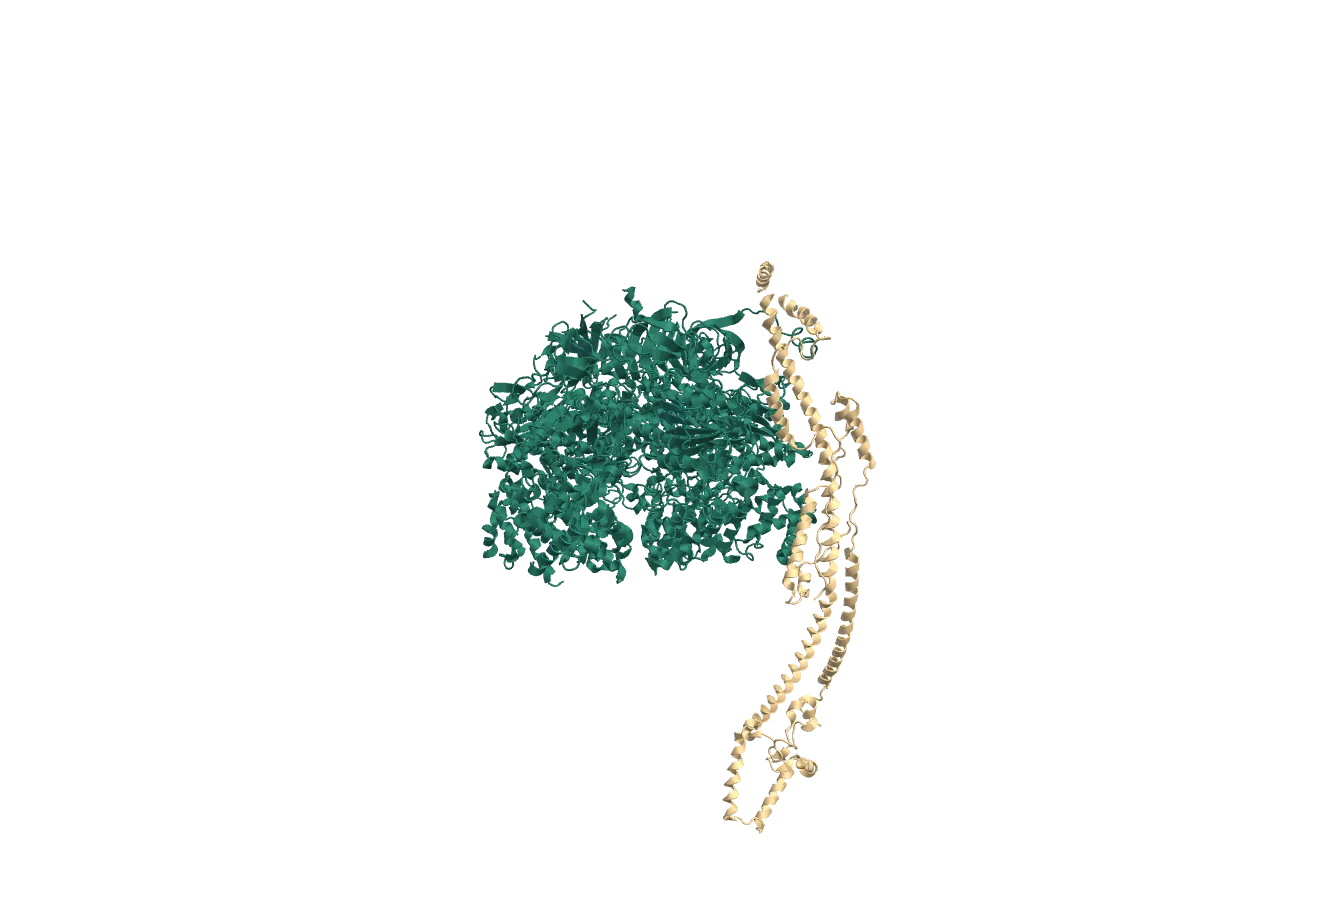
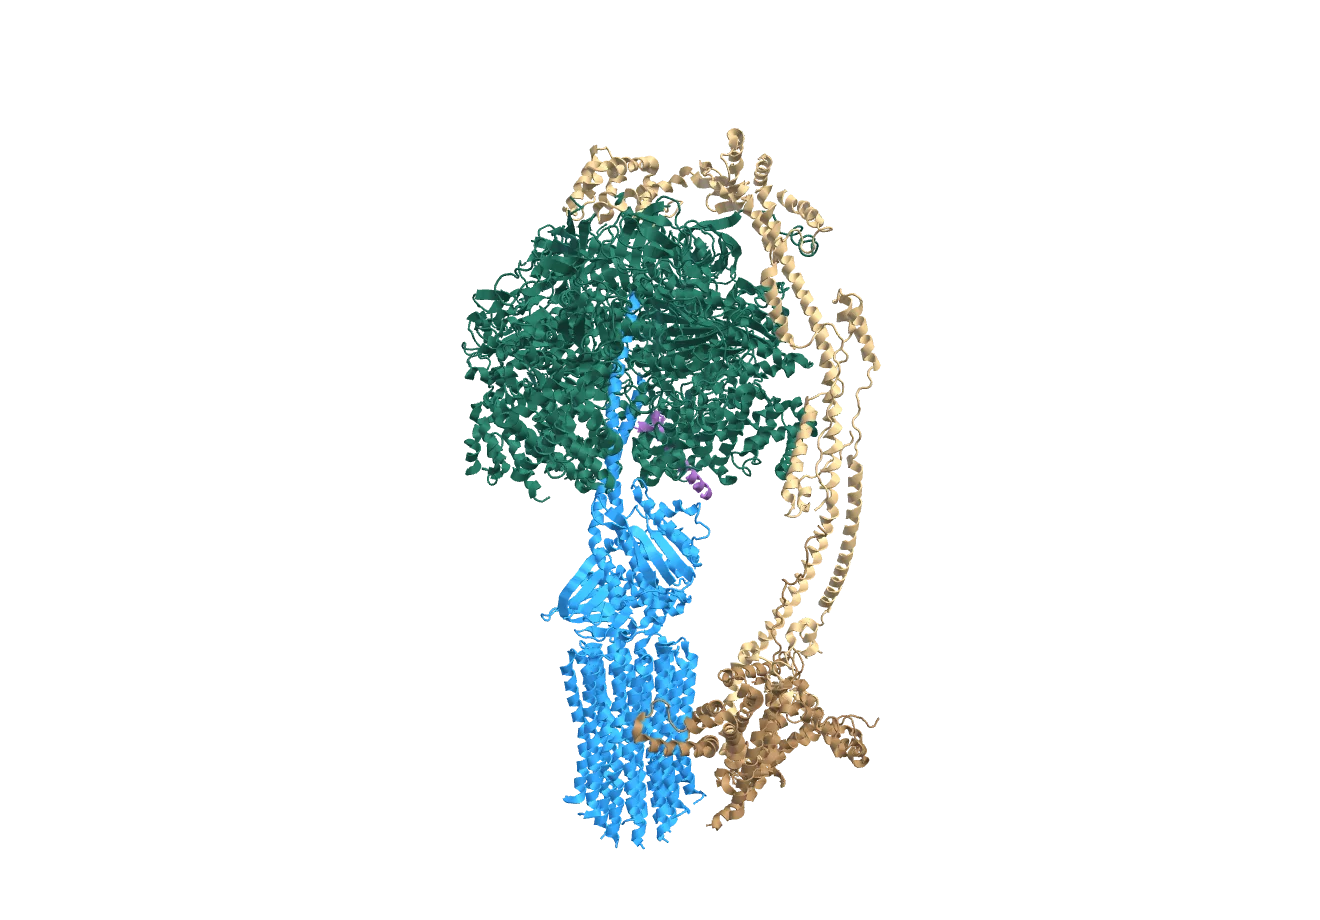
Make tool for baking protein thumbnails and update the renders with missing chains

Changed region(s): [[0.3417, 0.1217, 0.6833, 0.913]]

diff --git a/demos/proteins/tools/stills.html b/demos/proteins/tools/stills.html
@@ -25,7 +25,7 @@
   body{font:14px/1.5 system-ui,-apple-system,sans-serif;margin:2rem;background:#faf8f4;color:#14161a}
   h1{font-size:1.2rem;margin:0 0 .4rem}
   p{color:#6d6f76;margin:0 0 1.2rem}
-  button{font:inherit;padding:.45rem 1rem;border:1px solid #14161a;background:#fff;border-radius:3px;cursor:pointer}
+  button,select{font:inherit;padding:.45rem 1rem;border:1px solid #14161a;background:#fff;border-radius:3px;cursor:pointer}
   /* The mount is 2x a card's 330x230 box: the still is a background-image on
      a retina screen, and a 1x bake is visibly soft next to the live canvas. */
   #mount{width:660px;height:460px;margin:1.2rem 0;border:1px solid #e4e0d7;background:#faf8f4}
@@ -37,6 +37,8 @@
 <h1>Gallery stills</h1>
 <p>Draws every protein once and writes <code>proteins/stills/&lt;key&gt;.webp</code>. Dev server only.</p>
 <button id="go">Bake all</button>
+<select id="pick"></select>
+<button id="one">Bake selected</button>
 <div id="mount"></div>
 <div id="log"></div>
 
@@ -73,7 +75,16 @@ const say = (t, bad) => {
 
 const wait = ms => new Promise(r => setTimeout(r, ms));
 
-async function bake(p) {
+/* One live box, not one per entry. Picking a protein loads it here and
+   leaves it up — the point of a picker is to LOOK before baking, and a box
+   destroyed the instant its frame is captured never gave a human that
+   chance. `liveKey` is what it currently holds, so `bake` below can skip
+   the reload when the box on screen already IS the selection. */
+let liveBox = null;
+let liveKey = null;
+
+async function loadEntry(p) {
+  if (liveBox) { liveBox.destroy(); liveBox = null; liveKey = null; }
   const v = defaultOf(p);
   const t = await fetch(dataOf(p, v.read.baked)).then(r => r.json());
 
@@ -101,16 +112,30 @@ async function bake(p) {
   });
   if (box.setPocket && t.pocket) box.setPocket(t.pocket);
 
+  /* Chains build one per animation frame (kit/proteinbox.js's "One chain per
+     frame" note), so a fixed wait here baked big assemblies mid-build —
+     atp-synthase's 28 chains needed ~28 frames and only ever got the ~14 a
+     4x60ms wait affords. Poll box.building until the queue drains instead. */
+  for (let i = 0; box.building && i < 300; i++) { box.draw(); await wait(16); }
+  if (box.building) throw new Error(`${p.key}: chains never finished building`);
+
   // A few frames, not one: the fit runs off a resize and the pocket lands
   // after the ribbon, and a snapshot taken before either is the wrong frame.
   for (let i = 0; i < 4; i++) { box.draw(); await wait(60); }
+  box.draw();
+
+  liveBox = box; liveKey = p.key;
+  return box;
+}
+
+async function bake(p) {
+  const box = (liveKey === p.key && liveBox) ? liveBox : await loadEntry(p);
 
   /* THE RIBBON ON NOTHING. The renderer's context is alpha and the still keeps
      it, so the card's paper shows through and a still is not pinned to one
      background colour. WebP because PNG at this size is 400 KB a card. */
   box.draw();                            // the buffer is only readable now
   const webp = box.canvas.toDataURL('image/webp', 0.85);
-  box.destroy();
   /* A browser with no WebP ENCODER hands back a PNG under the name asked for,
      silently, and the bake would then write 400 KB files with the wrong
      extension. Checked rather than trusted; the fix is to run this in a
@@ -129,10 +154,18 @@ async function bake(p) {
   return out.bytes;
 }
 
-document.getElementById('go').addEventListener('click', async () => {
-  document.getElementById('go').disabled = true;
-  logEl.textContent = '';
-  for (const p of ENTRIES) {
+const pickEl = document.getElementById('pick');
+for (const p of ENTRIES) {
+  const o = document.createElement('option');
+  o.value = p.key; o.textContent = p.key;
+  pickEl.appendChild(o);
+}
+const goEl = document.getElementById('go');
+const oneEl = document.getElementById('one');
+
+async function run(entries) {
+  goEl.disabled = oneEl.disabled = pickEl.disabled = true;
+  for (const p of entries) {
     try {
       const bytes = await bake(p);
       say(`${p.key} — ${Math.round(bytes / 1024)} KB`);
@@ -141,8 +174,27 @@ document.getElementById('go').addEventListener('click', async () => {
     }
   }
   say('done.');
-  document.getElementById('go').disabled = false;
+  goEl.disabled = oneEl.disabled = pickEl.disabled = false;
+}
+
+goEl.addEventListener('click', () => { logEl.textContent = ''; run(ENTRIES); });
+oneEl.addEventListener('click', () => {
+  logEl.textContent = '';
+  run([ENTRIES.find(p => p.key === pickEl.value)]);
 });
+/* Picking a protein loads it right away — the mount is not just where a bake
+   happens to flash through, it is how you tell which entry you are about to
+   bake before you commit to it. */
+pickEl.addEventListener('change', () => {
+  loadEntry(ENTRIES.find(p => p.key === pickEl.value))
+    .catch(e => say(`${pickEl.value} — ${e.message}`, true));
+});
+
+/* ?key=<protein> preselects AND loads, so a card's own "rebake this one"
+   link (or a bookmark) opens straight to that protein on screen. */
+const wantKey = new URLSearchParams(location.search).get('key');
+if (wantKey && ENTRIES.some(p => p.key === wantKey)) pickEl.value = wantKey;
+pickEl.dispatchEvent(new Event('change'));   // load whatever ended up selected
 </script>
 </body>
 </html>

diff --git a/demos/kit/proteinbox.js b/demos/kit/proteinbox.js
@@ -564,6 +564,13 @@
       onResize: fit,
       onDestroy: () => { if (sesOwner === box) sesOwner = null; },
     });
+    /* True while chains are still queued, one per frame — see the "One chain
+       per frame" note in setData below. A caller that needs the WHOLE
+       structure before it acts (a thumbnail bake snapshotting the canvas)
+       polls this instead of guessing how many frames a given entry needs.
+       Set here, before `opts.data` can trigger the first setData call below,
+       so that call's own flip to `true` is never clobbered by this default. */
+    box.building = false;
 
     /* Two groups, never both visible. The trajectory is in FoldLib.orient()'s
        frame and the trace is in the crystal's, so they are not the same
@@ -860,6 +867,7 @@
       const naIds = ids.filter(id => t.chains[id] && t.chains[id].kind === 'na');
       const queue = ids.filter(id => !(t.chains[id] && t.chains[id].kind === 'na'));
       if (naIds.length) queue.push(NA_STEP);
+      if (!pre) box.building = true;
 
       /* One chain per frame. A tetramer is ~80k triangles and building all
          four in the frame the trace lands is a visible stall on a page that
@@ -923,6 +931,7 @@
              put the old one out of sight. */
           remember(ribKey, madeMeshes, drawn);
           if (pre) { warmGeo(madeMeshes.map(m => m.geometry)); return; }
+          box.building = false;
           sweepOld(mine);
           box.draw();
         }

diff --git a/demos/admin.html b/demos/admin.html
@@ -286,6 +286,10 @@
         <div class="path">dna-replication.html <span class="badge">prototype</span></div>
         <div class="desc">Replication: the fork opens, then you copy the template a letter at a time — each nucleotide pairs and joins the backbone in the same beat</div>
       </a>
+      <a class="card test" href="tests/intro.html">
+        <div class="path">tests/intro.html <span class="badge">TEST</span></div>
+        <div class="desc">A front-door study: the wordmark nucleates, six live boxes drift in and the scroll settles them into the lesson grid, then the builder's ask box behind a waitlist and the protein gallery. Its own palette. tests/intro-water.html is its water card</div>
+      </a>
       <a class="card test" href="tests/sandbox-test.html">
         <div class="path">tests/sandbox-test.html <span class="badge">TEST</span></div>
         <div class="desc">The sandbox template: one scene, no Back/Next, every control at once. data-shell="sandbox" and kit/sandbox-shell.js over the lesson shell</div>

diff --git a/demos/lib/scene.js b/demos/lib/scene.js
@@ -374,8 +374,13 @@
       {canvas,antialias:o.antialias!==false,alpha:true});
     renderer.setPixelRatio(Math.min(devicePixelRatio,2));
     const scene=new THREE.Scene();
+    // An ortho camera's standing distance is not its framing, and frame()
+    // writes cam.r as the frustum HALF-HEIGHT — so the camera ends up parked
+    // roughly one molecule-radius away. With a near plane at 0.1 the front of
+    // a spinning molecule crosses it and is sliced open. Depth range is free
+    // under ortho (no perspective divide), so it spans the origin instead.
     const camera=o.ortho
-      ? new THREE.OrthographicCamera(-1,1,1,-1,0.1,1000)
+      ? new THREE.OrthographicCamera(-1,1,1,-1,-2000,2000)
       : new THREE.PerspectiveCamera(45,1,0.1,1000);
     const root=new THREE.Group(); scene.add(root);
 

diff --git a/demos/CLAUDE.md b/demos/CLAUDE.md
@@ -163,6 +163,8 @@ The human uses molecule-viewer.html to manually choose a good default rotation f
 
 **The human uses Safari.** Keep that in mind when she reports rendering or style bugs.
 
+**`proteins/tools/stills.html` (bakes `proteins/stills/*.webp`) only works in Chrome.** 
+
 **Don’t write a changelog in a code file’s comments. Comments should be active voice, and only document things that are not obvious from reading the code.**
 
 **Read a module’s own header before using it a way you have not used it before.** The load-bearing reasoning in this repo lives in the file headers, not only in `docs/` — and most of it is a trap that ships looking merely ugly, so it is written where someone about to fall in will be looking. `kit/ribbon.js` says not to slice a chain and build per secondary-structure element; a page did it anyway and drew the protein as scattered splinters.
